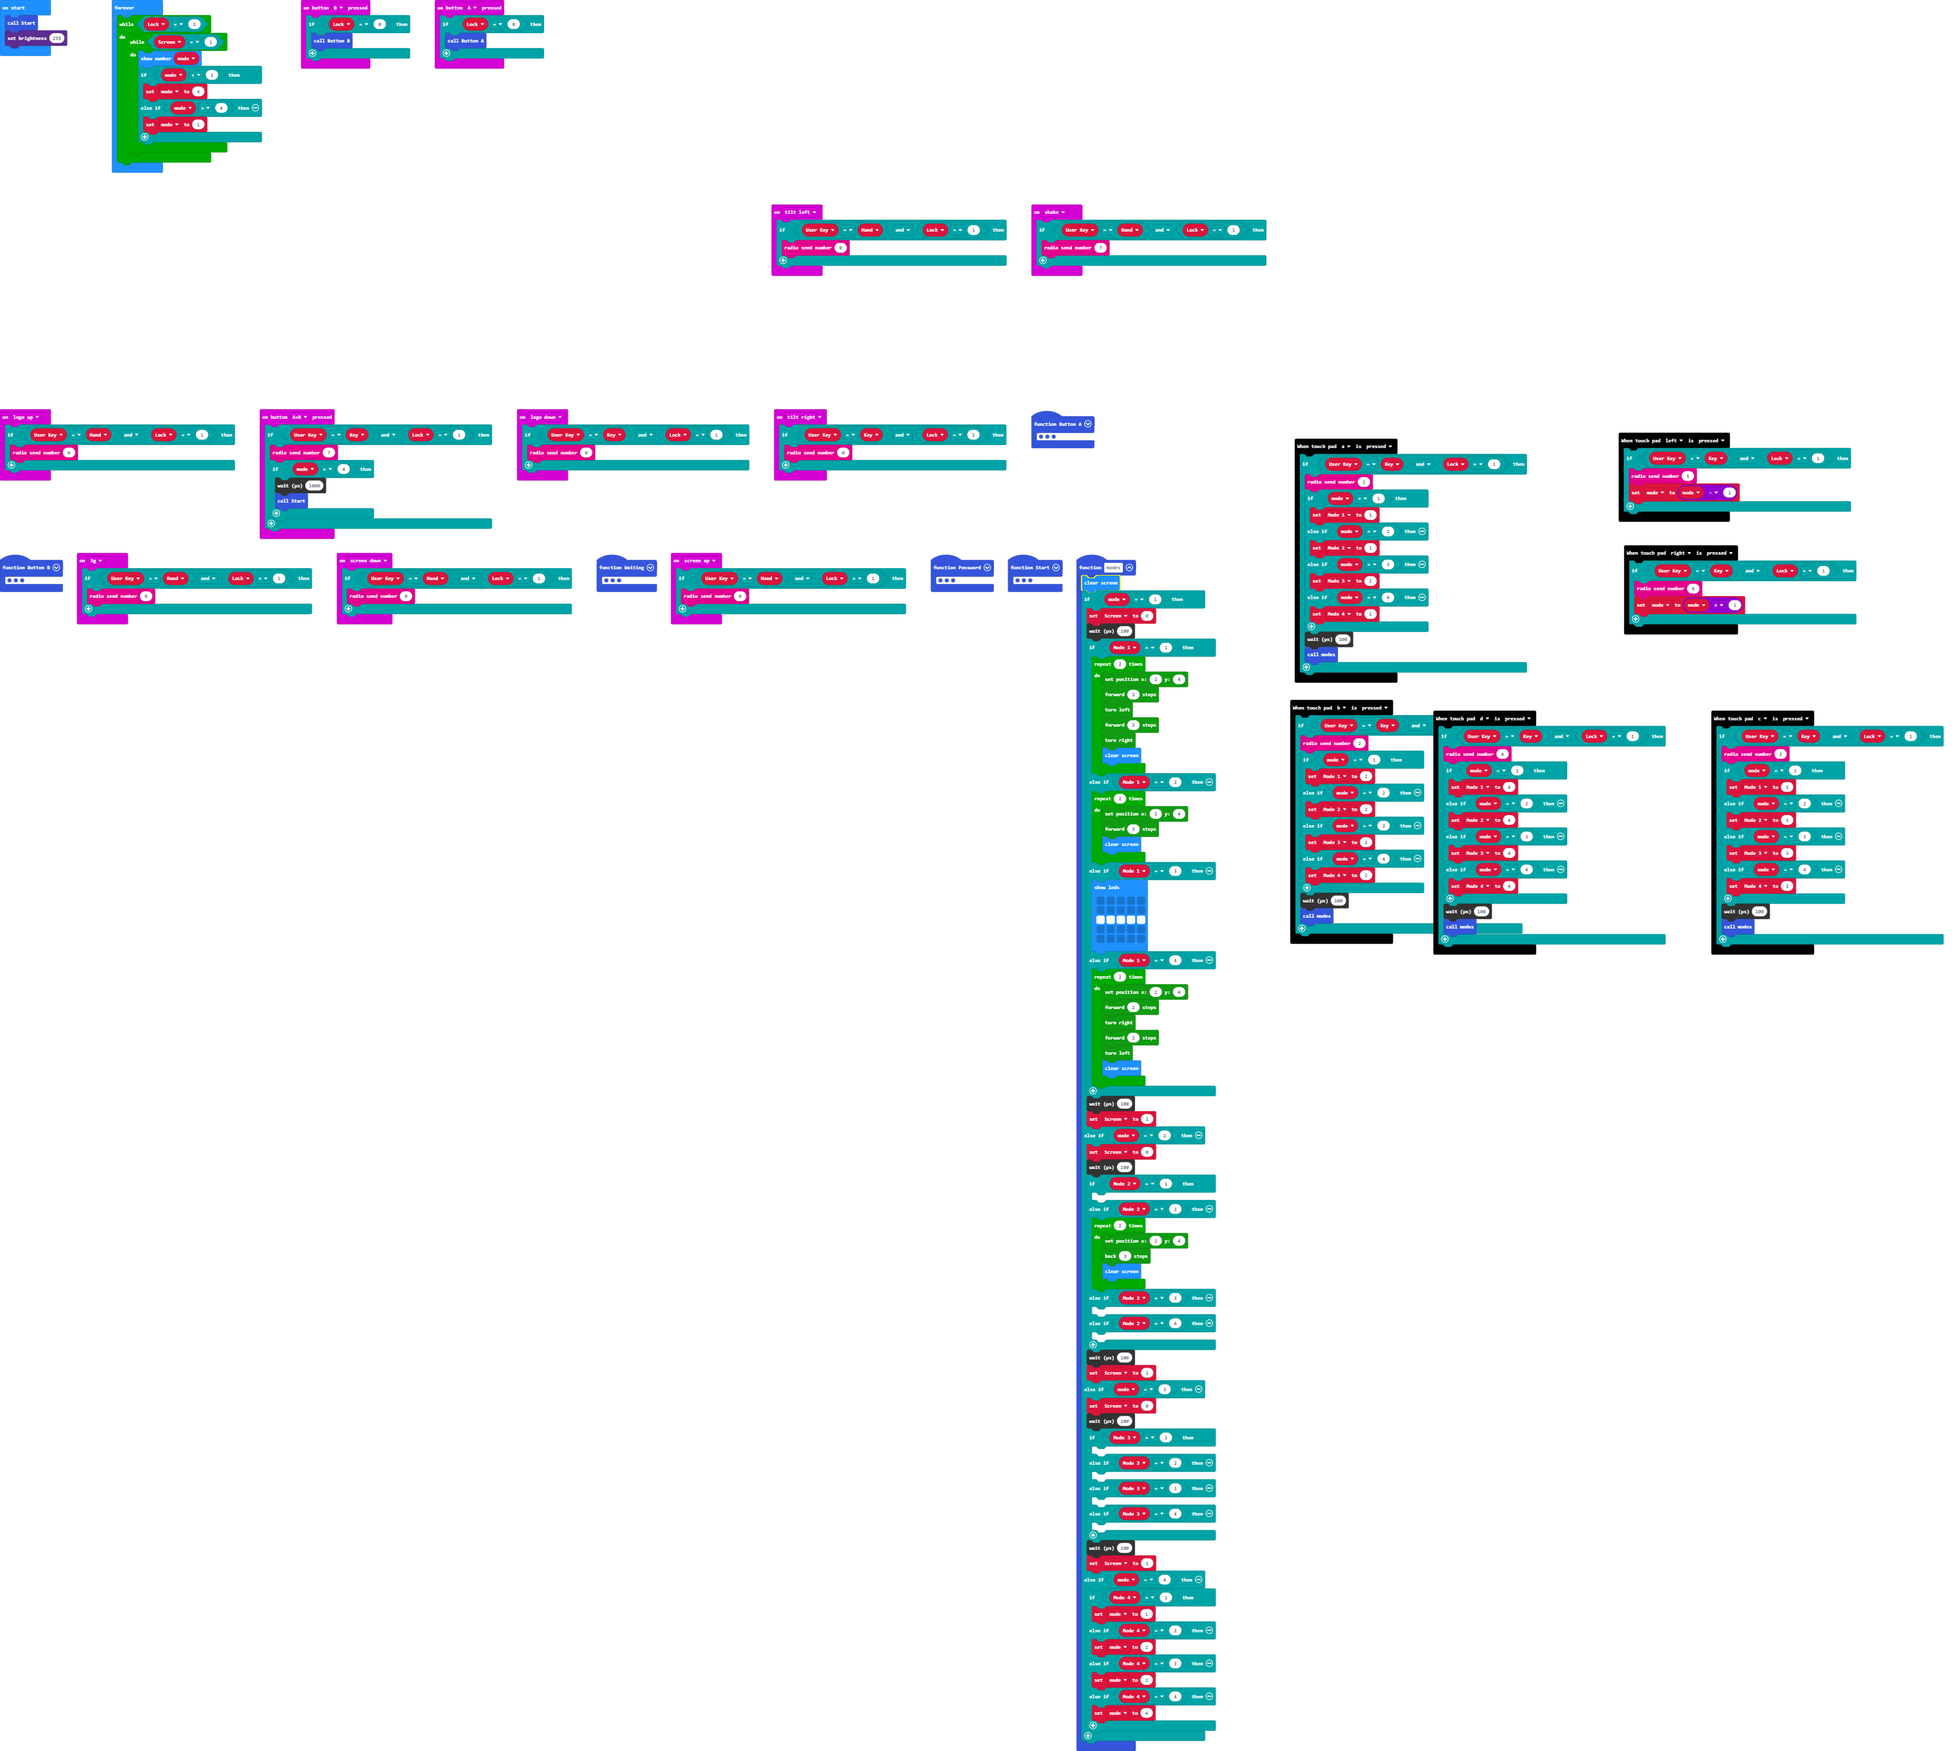
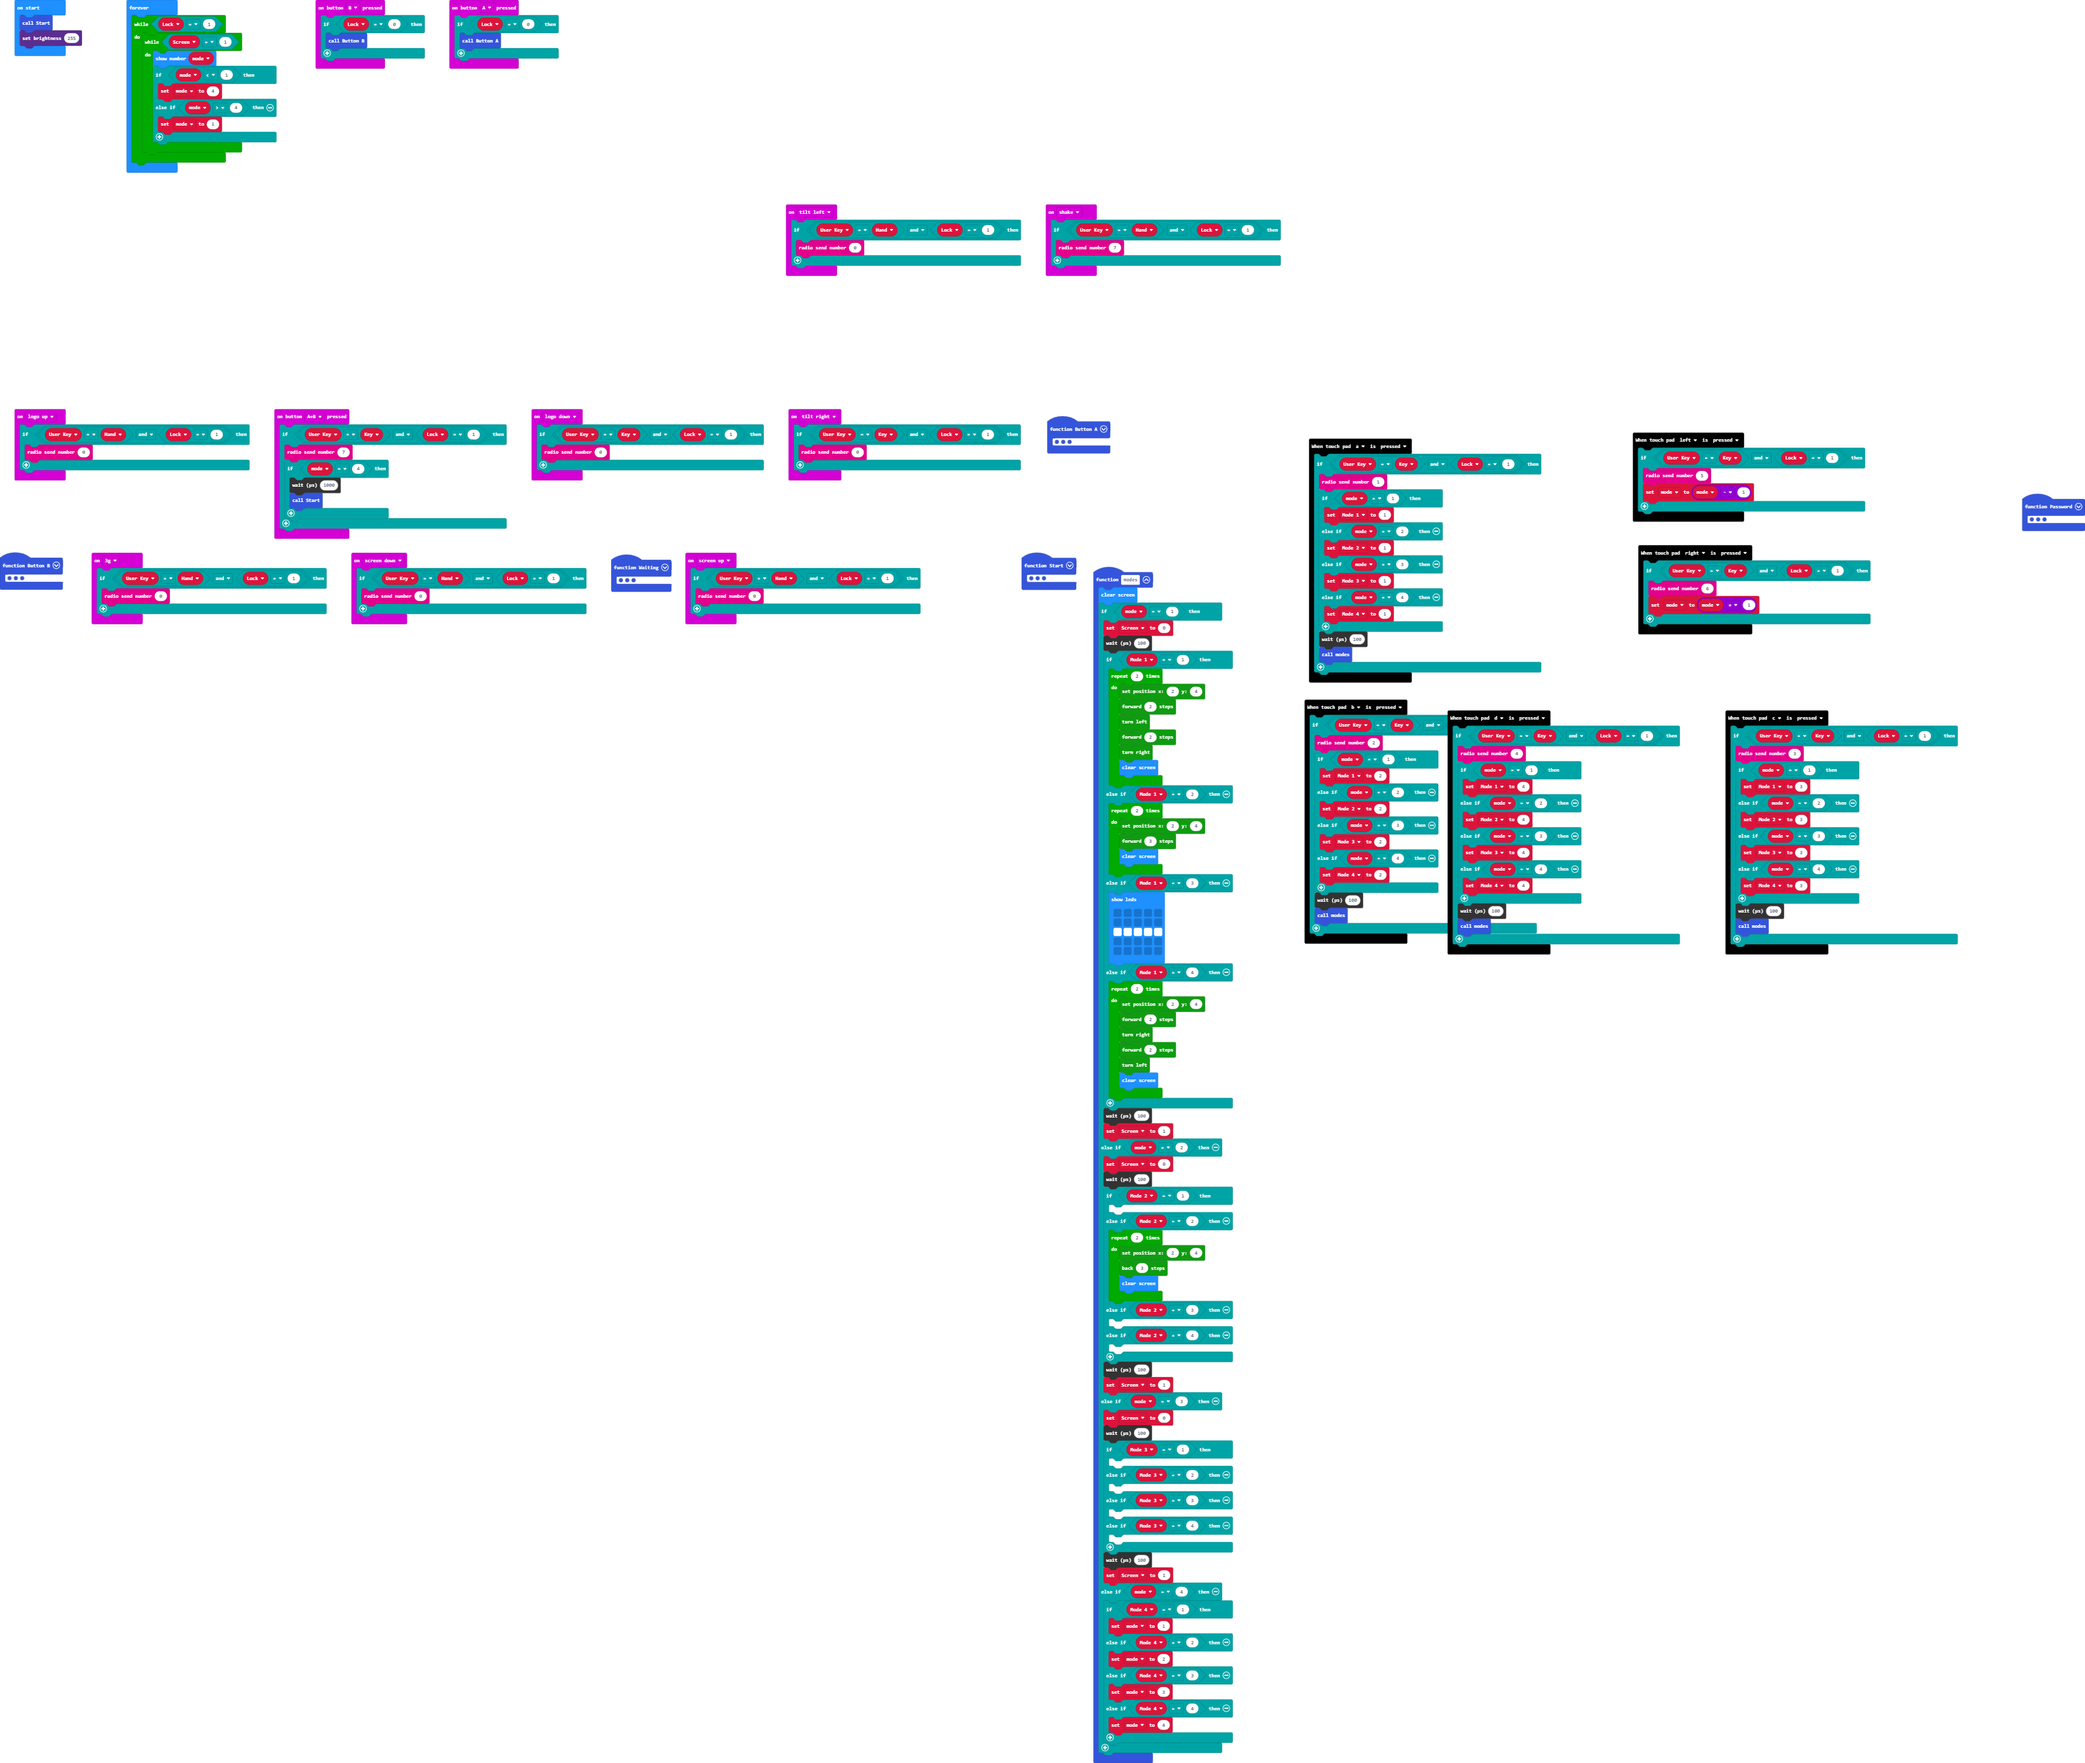
Update main.blocks, main.ts

diff --git a/main.ts b/main.ts
@@ -11,7 +11,7 @@ function Password () {
         }
         basic.pause(100)
         Lock = 1
-    } else if (User_Key.length > Key.length || User_Key.length > Hand.length) {
+    } else if ((User_Key != Key || User_Key != Hand) && Unlock == 4) {
         if (Lock == 0) {
             basic.showIcon(IconNames.No)
             basic.pause(200)
@@ -19,8 +19,9 @@ function Password () {
             User_Key = ""
             Temp = ""
             Count = Count + 1
+            Waiting()
             if (Count > Try) {
-                control.waitMicros(25000)
+                control.waitMicros(250000)
                 control.reset()
             }
         }
@@ -44,6 +45,7 @@ touchbit.on(touchbit.TouchPad.b, touchbit.TouchEvent.pressed, function () {
 })
 function Button_B () {
     Temp = "" + User_Key + "B"
+    Unlock = Unlock + 1
     basic.showString("B")
     basic.pause(100)
     basic.clearScreen()
@@ -51,6 +53,7 @@ function Button_B () {
 }
 function Start () {
     radio.setGroup(1)
+    Unlock = 0
     Screen = 1
     Key = "ABBA"
     Hand = "BAAB"
@@ -88,6 +91,7 @@ touchbit.on(touchbit.TouchPad.d, touchbit.TouchEvent.pressed, function () {
 })
 function Button_A () {
     Temp = "" + User_Key + "A"
+    Unlock = Unlock + 1
     basic.showString("A")
     basic.pause(100)
     basic.clearScreen()
@@ -329,6 +333,7 @@ let Try = 0
 let Count = 0
 let mode = 0
 let Lock = 0
+let Unlock = 0
 let Hand = ""
 let Key = ""
 let Temp = ""
